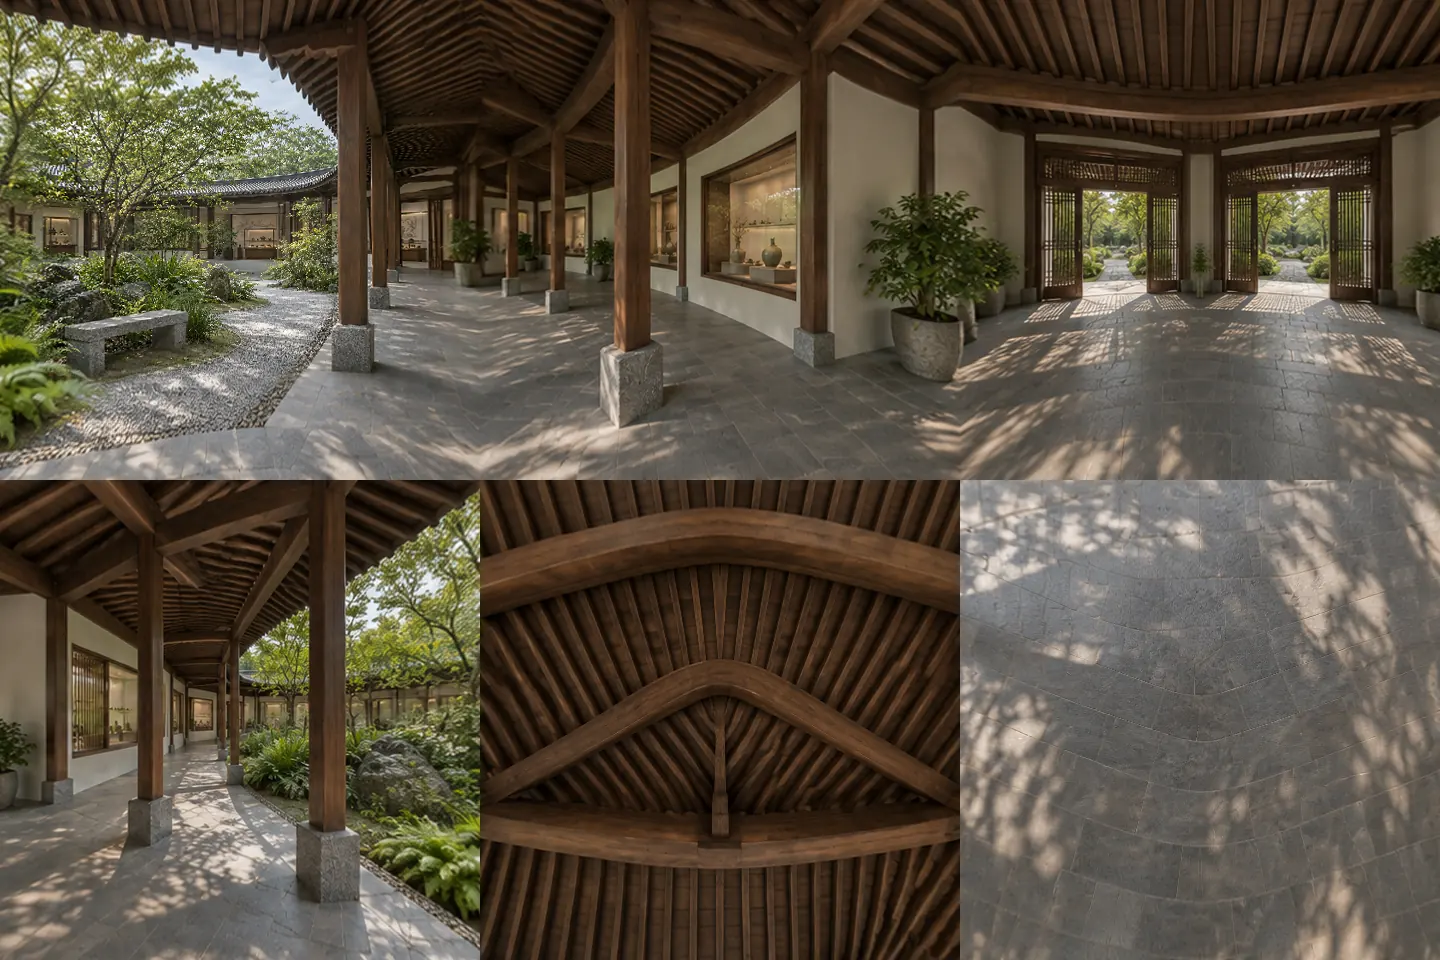
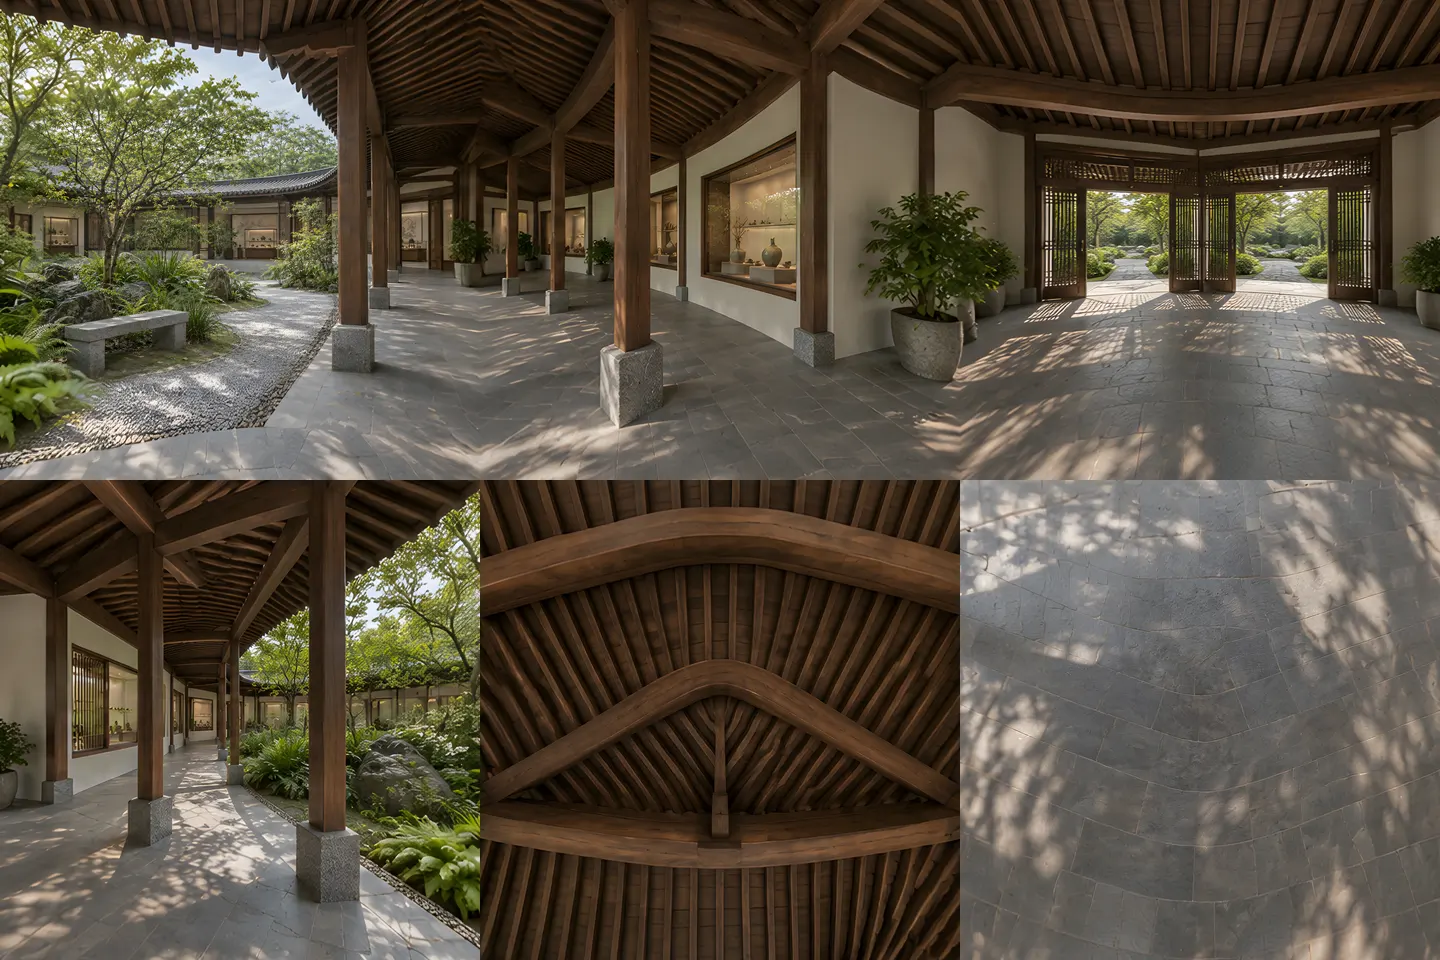
Stream high-definition panorama directions and original exhibition details on zoom

diff --git a/interior/index.html b/interior/index.html
@@ -38,7 +38,8 @@ body.expanded{overflow:hidden}
 #camera{display:none;position:absolute;inset:0;perspective-origin:50% 50%;pointer-events:none;background:#454638;overflow:hidden}
 #stage[data-mode="panorama"] #camera{display:block}
 #world{position:absolute;top:50%;left:50%;width:0;height:0;transform-style:preserve-3d}
-.face{position:absolute;left:-384px;top:-384px;width:768px;height:768px;background-size:300% 200%;background-repeat:no-repeat;backface-visibility:hidden}
+.face{position:absolute;left:-1024px;top:-1024px;width:2048px;height:2048px;background-size:300% 200%;background-repeat:no-repeat;backface-visibility:hidden;overflow:hidden}
+.orbit-detail{position:absolute;top:0;left:0;width:100%;height:100%;max-width:none;display:block;pointer-events:none}
 .expand{position:absolute;right:10px;top:10px;color:#fff;border-color:#ffffff68;background:#17231b99;width:42px;min-height:40px;padding:7px;display:grid;place-items:center}
 .expand:hover{background:#19241bdd}
 .expand svg{width:19px;height:19px}
@@ -49,6 +50,9 @@ figcaption{justify-content:space-between;gap:12px;flex-wrap:wrap;margin-top:12px
 .primary{background:var(--ink);color:#fff;border-color:var(--ink)}
 .primary:hover{background:#414e40}
 #hint{font-size:13px;color:var(--muted);line-height:1.55}
+.view-hint{display:flex;align-items:center;gap:5px 10px;flex-wrap:wrap;font-size:13px}
+#quality{color:var(--ink)}
+#retryQuality{padding:0 8px}
 .tour-nav{margin-top:clamp(18px,3vh,32px);border-block:1px solid var(--rule);justify-content:space-between;gap:12px}
 .tour-nav button{display:flex;align-items:center;gap:12px;text-align:left;border:0;border-radius:0;padding:11px 4px;background:transparent}
 .tour-nav button:last-child{text-align:right}
@@ -83,7 +87,7 @@ dialog:not([open]){display:none}
   <figure>
     <div id="stage" tabindex="0" aria-label="展厅影像，可用方向键浏览">
       <img id="photo" alt="" fetchpriority="high" draggable="false">
-      <div id="camera" aria-hidden="true"><div id="world"><div class="face" style="transform:rotateY(0deg) translateZ(-383.85px);background-position:0% 0%"></div><div class="face" style="transform:rotateY(-90deg) translateZ(-383.85px);background-position:50% 0%"></div><div class="face" style="transform:rotateY(180deg) translateZ(-383.85px);background-position:100% 0%"></div><div class="face" style="transform:rotateY(90deg) translateZ(-383.85px);background-position:0% 100%"></div><div class="face" style="transform:rotateX(-90deg) translateZ(-383.85px);background-position:50% 100%"></div><div class="face" style="transform:rotateX(90deg) translateZ(-383.85px);background-position:100% 100%"></div></div></div>
+      <div id="camera" aria-hidden="true"><div id="world"><div class="face" style="transform:rotateY(0deg) translateZ(-1023.88px);background-position:0% 0%"></div><div class="face" style="transform:rotateY(-90deg) translateZ(-1023.88px);background-position:50% 0%"></div><div class="face" style="transform:rotateY(180deg) translateZ(-1023.88px);background-position:100% 0%"></div><div class="face" style="transform:rotateY(90deg) translateZ(-1023.88px);background-position:0% 100%"></div><div class="face" style="transform:rotateX(-90deg) translateZ(-1023.88px);background-position:50% 100%"></div><div class="face" style="transform:rotateX(90deg) translateZ(-1023.88px);background-position:100% 100%"></div></div></div>
       <div id="feedback" role="status" hidden></div>
       <button id="retry" type="button" hidden>重新加载原图</button>
       <button class="expand" id="fullscreen" type="button" aria-label="全屏观看" title="全屏观看"><svg viewBox="0 0 24 24" aria-hidden="true" fill="none" stroke="currentColor" stroke-width="1.6"><path d="M4 9V4h5m6 0h5v5m0 6v5h-5M9 20H4v-5"/></svg></button>
@@ -91,7 +95,7 @@ dialog:not([open]){display:none}
     <figcaption><div class="actions">
       <button type="button" id="mode" class="primary" hidden><span aria-hidden="true">⟲</span> <span id="modeText">环视此处</span></button>
       <button type="button" id="detail">高清原图</button>
-    </div><span id="hint"></span></figcaption>
+    </div><div class="view-hint"><span id="quality" role="status" hidden></span><button id="retryQuality" type="button" hidden>重试高清</button><span id="hint"></span></div></figcaption>
   </figure>
   <nav class="tour-nav" aria-label="切换展区">
     <button id="prev" type="button"><span aria-hidden="true">←</span><span><small>上一处</small><b id="prevTitle"></b></span></button>
@@ -103,7 +107,150 @@ dialog:not([open]){display:none}
 <dialog id="lightbox"><div class="light-head"><strong id="lightTitle"></strong><button id="closeLight" type="button">关闭</button></div>
   <div class="zoom-scroll"><img id="large" alt=""></div><div class="light-foot"><p id="lightStatus" role="status"></p><a id="native" target="_blank" rel="noopener">打开原尺寸图</a></div>
 </dialog>
-<script>const rooms=[{"id":"MAIN","title":"品香主厅","width":832,"height":555,"small":"main-small.webp","detail":"main-detail.webp","surround":"main-surround.webp","original":"../photos/gallery-8k-r112.jpg","pixels":[7680,5120]},{"id":"CRA","title":"传香工坊","width":832,"height":555,"small":"cra-small.webp","detail":"cra-detail.webp","surround":"cra-surround.webp","original":"../photos/craft-8k-r113.jpg","pixels":[7680,5120]},{"id":"GARDEN","title":"香庭回廊","width":832,"height":555,"small":"garden-small.webp","detail":"garden-detail.webp","surround":"garden-surround.webp","original":"../photos/courtyard-8k-r112.jpg","pixels":[7680,5120]},{"id":"RET","title":"文创陈列","width":832,"height":555,"small":"ret-small.webp","detail":"ret-detail.webp","surround":"ret-surround.webp","original":"../photos/retail-8k-r113.jpg","pixels":[7680,5120]},{"id":"CAF","title":"庭院咖啡","width":555,"height":832,"small":"caf-small.webp","detail":"caf-detail.webp","surround":"caf-surround.webp","original":"../photos/cafe-8k-r113.jpg","pixels":[5120,7680]},{"id":"SMELL","title":"闻香空间","width":832,"height":832,"small":"smell-small.webp","detail":"smell-detail.webp","surround":"smell-surround.webp","original":"../photos/smell-8k-r113.jpg","pixels":[7680,7680]},{"id":"BOT","title":"识香展陈","width":832,"height":555,"small":"bot-small.webp","detail":"bot-detail.webp","surround":"bot-surround.webp","original":"../photos/bot-8k-r113.jpg","pixels":[7680,5120]},{"id":"HIS","title":"寻香展陈","width":832,"height":555,"small":"his-small.webp","detail":"his-detail.webp","surround":"his-surround.webp","original":"../photos/origin-8k-r113.jpg","pixels":[7680,5120]},{"id":"ENT","title":"门厅序厅","width":832,"height":555,"small":"ent-small.webp","detail":"ent-detail.webp","surround":"ent-surround.webp","original":"../photos/entry-8k-r113.jpg","pixels":[7680,5120]},{"id":"STREET","title":"展馆临街外观","width":832,"height":277,"small":"street-small.webp","detail":"street-detail.webp","surround":"street-surround.webp","original":"../photos/original-exterior-panorama.png","pixels":[2172,724]},{"id":"ALL","title":"叠院香阁鸟瞰","width":832,"height":326,"small":"all-small.webp","detail":"all-detail.webp","surround":"all-surround.webp","original":"../photos/exterior-8k-r113.jpg","pixels":[7680,3010]}];</script>
+<script>const rooms=[{"id":"MAIN","title":"品香主厅","width":832,"height":555,"small":"main-small.webp","detail":"main-detail.webp","surround":"main-surround.webp?v=137","zoomFront":true,"original":"../photos/gallery-8k-r112.jpg","pixels":[7680,5120]},{"id":"CRA","title":"传香工坊","width":832,"height":555,"small":"cra-small.webp","detail":"cra-detail.webp","surround":"cra-surround.webp?v=137","zoomFront":true,"original":"../photos/craft-8k-r113.jpg","pixels":[7680,5120]},{"id":"GARDEN","title":"香庭回廊","width":832,"height":555,"small":"garden-small.webp","detail":"garden-detail.webp","surround":"garden-surround.webp?v=137","zoomFront":true,"original":"../photos/courtyard-8k-r112.jpg","pixels":[7680,5120]},{"id":"RET","title":"文创陈列","width":832,"height":555,"small":"ret-small.webp","detail":"ret-detail.webp","surround":"ret-surround.webp?v=137","zoomFront":true,"original":"../photos/retail-8k-r113.jpg","pixels":[7680,5120]},{"id":"CAF","title":"庭院咖啡","width":555,"height":832,"small":"caf-small.webp","detail":"caf-detail.webp","surround":"caf-surround.webp?v=137","zoomFront":true,"original":"../photos/cafe-8k-r113.jpg","pixels":[5120,7680]},{"id":"SMELL","title":"闻香空间","width":832,"height":832,"small":"smell-small.webp","detail":"smell-detail.webp","surround":"smell-surround.webp?v=137","zoomFront":true,"original":"../photos/smell-8k-r113.jpg","pixels":[7680,7680]},{"id":"BOT","title":"识香展陈","width":832,"height":555,"small":"bot-small.webp","detail":"bot-detail.webp","surround":"bot-surround.webp?v=137","zoomFront":true,"original":"../photos/bot-8k-r113.jpg","pixels":[7680,5120]},{"id":"HIS","title":"寻香展陈","width":832,"height":555,"small":"his-small.webp","detail":"his-detail.webp","surround":"his-surround.webp?v=137","zoomFront":true,"original":"../photos/origin-8k-r113.jpg","pixels":[7680,5120]},{"id":"ENT","title":"门厅序厅","width":832,"height":555,"small":"ent-small.webp","detail":"ent-detail.webp","surround":"ent-surround.webp?v=137","zoomFront":true,"original":"../photos/entry-8k-r113.jpg","pixels":[7680,5120]},{"id":"STREET","title":"展馆临街外观","width":832,"height":277,"small":"street-small.webp","detail":"street-detail.webp","surround":"street-surround.webp?v=137","zoomFront":false,"original":"../photos/original-exterior-panorama.png","pixels":[2172,724]},{"id":"ALL","title":"叠院香阁鸟瞰","width":832,"height":326,"small":"all-small.webp","detail":"all-detail.webp","surround":"all-surround.webp?v=137","zoomFront":true,"original":"../photos/exterior-8k-r113.jpg","pixels":[7680,3010]}];</script>
+<script>// Project the viewing frustum onto the same six planes as the CSS cube.
+const faceNames=['front','right','back','left','up','down'];
+function cubePoint(face,u,v) {
+  switch(face) {
+    case 0:return [u,-v,1];
+    case 1:return [1,-v,-u];
+    case 2:return [-u,-v,-1];
+    case 3:return [-1,-v,u];
+    case 4:return [u,1,v];
+    default:return [u,-1,-v];
+  }
+}
+function rectOnCube(face,left=-1,top=-1,right=1,bottom=1) {
+  return {face,center:cubePoint(face,(left+right)/2,(top+bottom)/2),
+    corners:[[left,top],[right,top],[right,bottom],[left,bottom]].map(([u,v])=>cubePoint(face,u,v))};
+}
+const directions=faceNames.map((name,face)=>({...rectOnCube(face),key:name}));
+const frontTiles=[];
+for(let row=0;row<4;row++){
+  for(let col=0;col<4;col++){
+    const u=col*.5-1,v=row*.5-1;
+    frontTiles.push({...rectOnCube(0,u,v,u+.5,v+.5),key:'z'+row+col,row,col});
+  }
+}
+function visiblePart(part,view) {
+  let outside=31;
+  for(const [x,y,z] of part.corners){
+    const across=x*view.cosY-z*view.sinY;
+    const forward=x*view.sinY+z*view.cosY;
+    const depth=forward*view.cosP+y*view.sinP;
+    const up=y*view.cosP-forward*view.sinP;
+    const dx=depth*view.halfW,dy=depth*view.halfH;
+    outside&=(depth<=.001?1:0)|(across < -dx?2:0)|(across>dx?4:0)|(up < -dy?8:0)|(up>dy?16:0);
+  }
+  return outside===0;
+}
+function closeness(part,view) {
+  const [x,y,z]=part.center;
+  return ((x*view.sinY+z*view.cosY)*view.cosP+y*view.sinP)/Math.hypot(x,y,z);
+}
+
+class DirectionTextures {
+  constructor(world,stage,notify) {
+    this.world=world;this.stage=stage;this.notify=notify;
+    this.loaded=new Map();this.pending=new Map();this.failed=new Set();
+    this.generation=0;this.clock=0;this.timer=0;this.room=null;
+    this.wanted=[];this.signal='';
+  }
+  clear(){
+    ++this.generation;
+    clearTimeout(this.timer);this.timer=0;
+    for(const img of this.pending.values()){
+      img.onload=null;img.onerror=null;img.removeAttribute('src');
+    }
+    for(const entry of this.loaded.values()) entry.img.remove();
+    this.loaded.clear();this.pending.clear();this.failed.clear();
+    this.room=null;this.view=null;this.wanted=[];this.signal='';
+    this.stage.removeAttribute('data-hd-face');this.stage.removeAttribute('data-quality');
+    this.notify('');
+  }
+  start(room){this.clear();this.room=room;}
+  look(yaw,pitch,zoom,f,w,h){
+    if(!this.room || !w || !h) return;
+    const deg=Math.PI/180;
+    this.view={cosY:Math.cos(yaw*deg),sinY:Math.sin(yaw*deg),cosP:Math.cos(pitch*deg),sinP:Math.sin(pitch*deg),
+      halfW:w/(2*f)*1.012,halfH:h/(2*f)*1.012,zoom,physicalSide:2*f*(window.devicePixelRatio||1)};
+    if(!this.wanted.length){this.select();return;}
+    if(!this.timer) this.timer=setTimeout(()=>{this.timer=0;this.select();},55);
+  }
+  select(){
+    if(!this.room || !this.view) return;
+    const v=this.view;
+    const ranked=parts=>parts.filter(p=>visiblePart(p,v)).sort((a,b)=>closeness(b,v)-closeness(a,v));
+    const broad=ranked(directions);
+    this.central=broad[0];
+    const needsTiles=this.room.zoomFront && broad.some(p=>p.face===0) &&
+      ((v.zoom>=1.35 && (v.physicalSide>=1450 || v.zoom>=1.9)) || v.physicalSide>=3000);
+    this.tiles=needsTiles?ranked(frontTiles):[];
+    this.wanted=broad.concat(this.tiles);
+    for(const p of this.wanted){const entry=this.loaded.get(p.key);if(entry)entry.last=++this.clock;}
+    this.trim();this.pump();
+  }
+  trim(){
+    const wanted=new Set(this.wanted.map(p=>p.key));
+    for(const [isTile,limit] of [[false,4],[true,8]]){
+      const group=[...this.loaded].filter(([,r])=>(r.part.row!==undefined)===isTile);
+      const offscreen=group.filter(([k])=>!wanted.has(k)).sort((a,b)=>a[1].last-b[1].last);
+      let count=group.length;
+      for(const [k,r] of offscreen){
+        if(count<=limit && (!isTile || this.tiles.length)) break;
+        r.img.remove();this.loaded.delete(k);count--;
+      }
+    }
+  }
+  pump(){
+    if(!this.room || !this.central) return;
+    for(const part of this.wanted){
+      if(this.pending.size>=2) break;
+      if(!this.loaded.has(part.key) && !this.pending.has(part.key) && !this.failed.has(part.key))this.load(part);
+    }
+    const central=this.central.key;
+    const failed=this.wanted.some(p=>this.failed.has(p.key));
+    const baseReady=this.loaded.has(central);
+    const extra=this.tiles.length>0;
+    const quality=failed?'retry':!baseReady?'loading':extra && this.tiles.some(p=>!this.loaded.has(p.key))?'zoom-loading':extra?'detail':'hd';
+    this.stage.dataset.hdFace=central;
+    this.stage.dataset.quality=quality;
+    if(quality!==this.signal){this.signal=quality;this.notify(quality);}
+  }
+  load(part){
+    const generation=this.generation;
+    const img=new Image();
+    const current=()=>generation===this.generation && this.pending.get(part.key)===img;
+    this.pending.set(part.key,img);
+    img.alt='';img.draggable=false;img.decoding='async';img.className='orbit-detail';
+    img.dataset.part=part.key;
+    const tile=part.row!==undefined;
+    if(tile){
+      const pad=2*100/4096;
+      img.style.left=(part.col*25-pad)+'%';img.style.top=(part.row*25-pad)+'%';
+      img.style.width=img.style.height=(25+2*pad)+'%';
+    }
+    img.onerror=()=>{
+      if(!current()) return;
+      this.pending.delete(part.key);this.failed.add(part.key);this.pump();
+    };
+    img.onload=async ()=>{
+      if(img.decode){try{await img.decode();}catch{}}
+      if(!current()) return;
+      this.pending.delete(part.key);
+      if(img.naturalWidth!==(tile?1028:2048)){
+        this.failed.add(part.key);this.pump();return;
+      }
+      const face=this.world.children[part.face];
+      if(tile)face.append(img);else face.prepend(img);
+      this.loaded.set(part.key,{part,img,last:++this.clock});
+      this.trim();this.pump();
+    };
+    img.src='hd137/'+this.room.id.toLowerCase()+'/'+part.key+'.webp';
+  }
+  retry(){this.failed.clear();this.pump();}
+}
+</script>
 <script>'use strict';
 const $ = id => document.getElementById(id);
 const stage = $('stage'), photo = $('photo'), camera = $('camera'), world = $('world');
@@ -111,7 +258,14 @@ const selector = $('rooms'), light = $('lightbox'), large = $('large');
 const directory = 'board-views/';
 const geometryUrl = new URL($('modelLink').href);
 const allowOrbit = CSS.supports('transform-style', 'preserve-3d');
+const qualityLabels={loading:'正在载入高清…',hd:'高清环视','zoom-loading':'正在载入放大细节…',detail:'原图细节',retry:'高清暂未载入'};
+const hd=new DirectionTextures(world,stage,level=>{
+  $('quality').hidden=!level;
+  $('quality').textContent=qualityLabels[level]||'';
+  $('retryQuality').hidden=level!=='retry';
+});
 let index = 0, photoVersion = 0, modeVersion = 0, requestMode = false;
+let posterTimer=0, posterLoader=null;
 let yaw = 0, pitch = 0, zoom = 1, drawId = 0, detailVersion = 0;
 let distance = 0, horizontalTravel = 0, startX = 0, startY = 0, modeAtStart = '';
 const pointers = new Map();
@@ -141,12 +295,37 @@ function modeControls() {
 }
 function showPhoto() {
   ++modeVersion;
+  hd.clear();
   requestMode = false;
   stage.dataset.mode = 'photo';
   yaw = 0; pitch = 0; zoom = 1;
-  notice(); modeControls();
+  notice(); modeControls();schedulePoster();
+}
+function cancelPoster(){
+  clearTimeout(posterTimer);posterTimer=0;
+  if(posterLoader){posterLoader.onload=null;posterLoader.onerror=null;posterLoader.removeAttribute('src');posterLoader=null;}
+}
+function schedulePoster(){
+  clearTimeout(posterTimer);
+  const item=scene(), version=photoVersion;
+  if(!item || orbit() || requestMode || !photo.complete || !photo.naturalWidth ||
+     posterLoader || !photo.currentSrc.endsWith('/'+item.small))return;
+  const scale=Math.min(stage.clientWidth/item.width,stage.clientHeight/item.height)*(devicePixelRatio||1);
+  if(scale<1.14)return;
+  posterTimer=setTimeout(()=>{
+    if(version!==photoVersion || orbit() || requestMode)return;
+    const img=new Image();posterLoader=img;img.decoding='async';img.fetchPriority='low';
+    img.onload=async()=>{
+      if(img.decode){try{await img.decode();}catch{}}
+      if(version!==photoVersion || img!==posterLoader || orbit() || requestMode)return;
+      posterLoader=null;photo.src=img.src;
+    };
+    img.onerror=()=>{if(posterLoader===img)posterLoader=null;};
+    img.src=directory+item.detail;
+  },850);
 }
 function choose(i,updateUrl=true) {
+  cancelPoster();
   index = wrap(i);
   const item = scene(), version = ++photoVersion;
   pointers.clear();
@@ -169,7 +348,7 @@ function choose(i,updateUrl=true) {
   photo.alt = item.title+' · 展板效果图';
   photo.onload = () => {
     const ready = () => {
-      if(version === photoVersion) document.documentElement.dataset.ready = 'true';
+      if(version === photoVersion) {document.documentElement.dataset.ready='true';schedulePoster();}
     };
     if(photo.decode) photo.decode().then(ready,ready);
     else ready();
@@ -193,6 +372,7 @@ function frame() {
   const f=Math.max(w*.5/Math.tan(52*Math.PI/180),h*.5/Math.tan(38*Math.PI/180))*zoom;
   camera.style.perspective=f+'px';
   world.style.transform='translateZ('+f+'px) rotateX('+pitch+'deg) rotateY('+yaw+'deg)';
+  hd.look(yaw,pitch,zoom,f,w,h);
   stage.dataset.yaw=String(Math.round(yaw*10)/10);
   stage.dataset.pitch=String(Math.round(pitch*10)/10);
   stage.dataset.zoom=String(Math.round(zoom*100)/100);
@@ -206,6 +386,7 @@ function rotate(dx,dy) {
 }
 function beginOrbit() {
   if(!hasOrbit() || requestMode || orbit()) return;
+  cancelPoster();
   const version=++modeVersion, item=scene(), texture=new Image();
   requestMode=true;notice('正在打开环视…');modeControls();
   texture.onload=async () => {
@@ -215,6 +396,7 @@ function beginOrbit() {
     for(const face of world.children) face.style.backgroundImage=url;
     // Keep the decoded image alive while its six faces are displayed.
     camera.texture=texture;
+    hd.start(item);
     requestMode=false;
     stage.dataset.mode='panorama';notice();modeControls();frame();
   };
@@ -329,12 +511,13 @@ function openDetail() {
 selector.addEventListener('change',()=>choose(rooms.findIndex(r=>r.id===selector.value)));
 $('prev').onclick=()=>choose(index-1);$('next').onclick=()=>choose(index+1);
 $('retry').onclick=()=>choose(index,false);
+$('retryQuality').onclick=()=>hd.retry();
 $('mode').onclick=toggleOrbit;$('fullscreen').onclick=toggleFull;
 $('detail').onclick=openDetail;$('closeLight').onclick=closeLight;
 large.onclick=()=>large.classList.toggle('enlarged');
 light.addEventListener('click',e=>{if(e.target===light) closeLight();});
 window.addEventListener('popstate',()=>choose(selectedFromUrl(),false));
-window.addEventListener('resize',queueFrame);
+window.addEventListener('resize',()=>{queueFrame();schedulePoster();});
 document.addEventListener('fullscreenchange',fullLabel);
 if(window.ResizeObserver) new ResizeObserver(queueFrame).observe(stage);
 const linkedRoom=(new URLSearchParams(location.search).get('room')||'').toUpperCase();
